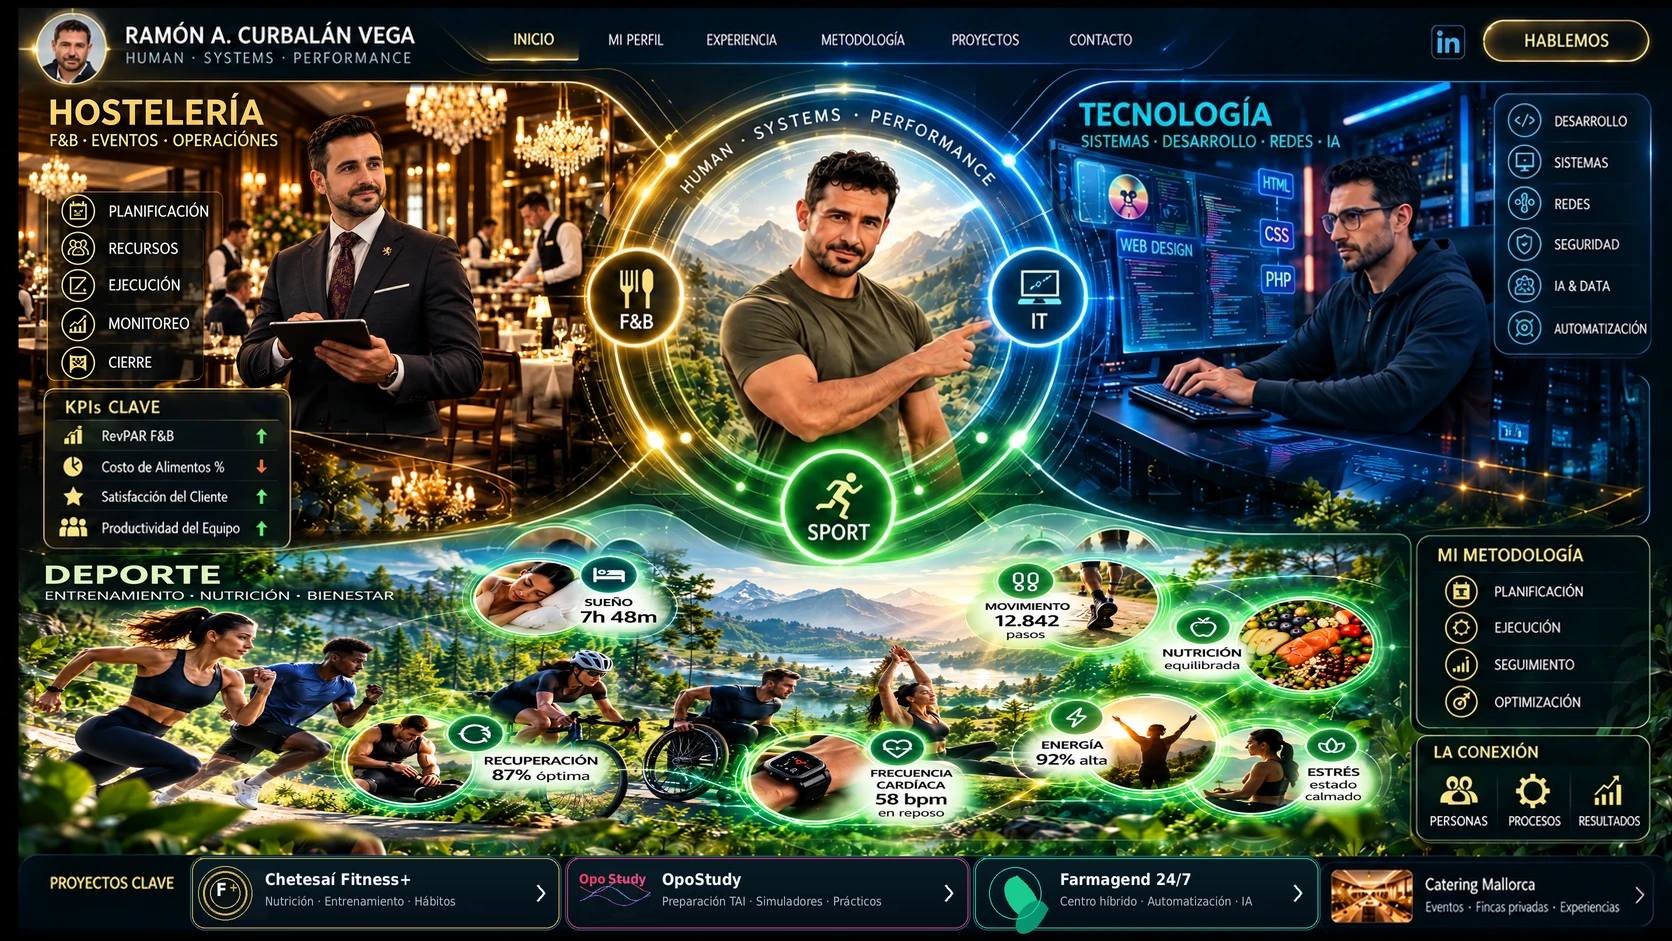
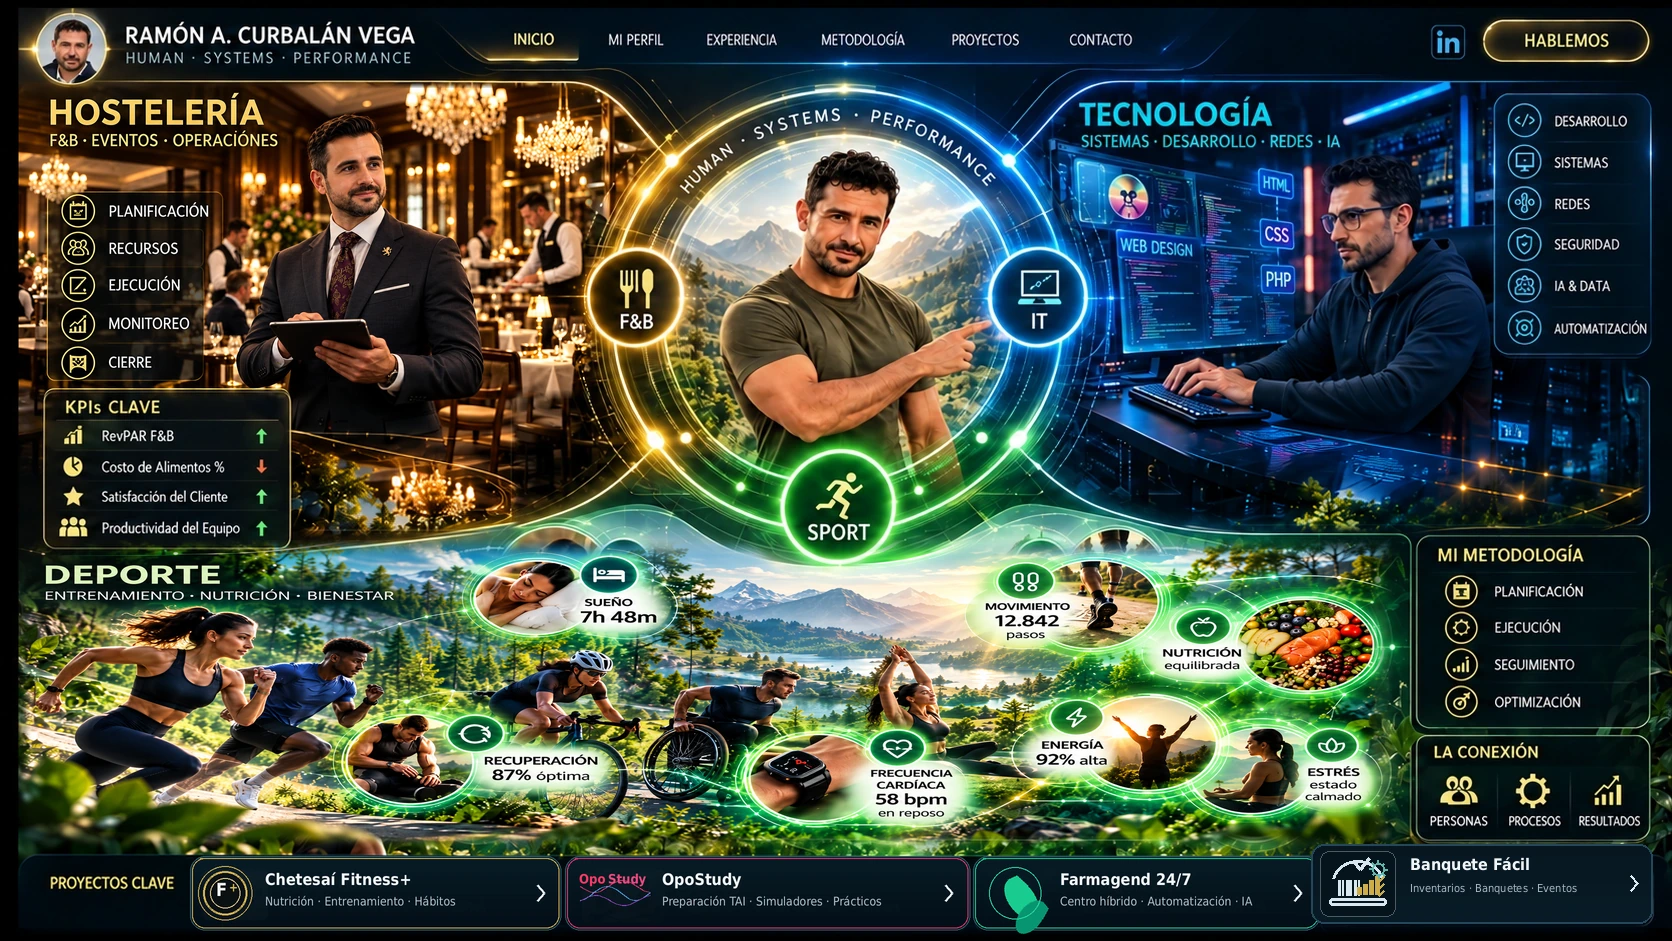
Replace Catering Mallorca with Banquete Facil inventory app

Changed region(s): [[0.7775, 0.8937, 0.9952, 0.9862]]

diff --git a/index.html b/index.html
@@ -23,7 +23,7 @@ dialog p{margin:0;color:#c9d6dc;line-height:1.65}
 </head>
 <body>
 <main class="cluster-stage" id="cluster">
-<img src="assets/cluster-approved.webp?v=cards-redrawn-hud" alt="Cluster Human Systems Performance de Ramón A. Curbalán Vega">
+<img src="assets/cluster-approved.webp?v=banquete-facil" alt="Cluster Human Systems Performance de Ramón A. Curbalán Vega">
 
 <!-- navegación -->
 <button class="hotspot" style="left:28.4%;top:0;width:5.3%;height:6.8%" data-open="Inicio" aria-label="Inicio"></button>
@@ -56,7 +56,7 @@ dialog p{margin:0;color:#c9d6dc;line-height:1.65}
 <a class="hotspot" style="left:11.5%;top:90.2%;width:22%;height:8%" href="https://chetesaifitness.com/" target="_blank" rel="noreferrer" aria-label="Chetesaí Fitness+"></a>
 <a class="hotspot" style="left:33.5%;top:90.2%;width:24%;height:8%" href="https://raymonchu48.github.io/Test-de-Oposicion-TAI/" aria-label="OpoStudy"></a>
 <a class="hotspot" style="left:58%;top:90.2%;width:20.5%;height:8%" href="farmagend.html" aria-label="Farmagend 24/7"></a>
-<a class="hotspot" style="left:78.5%;top:90.2%;width:19.2%;height:8%" href="https://github.com/Raymonchu48/Portfolio_Hosteleria" target="_blank" rel="noreferrer" aria-label="Catering Mallorca"></a>
+<a class="hotspot" style="left:78.5%;top:90.2%;width:19.2%;height:8%" href="https://raymonchu48.github.io/App_Inventarios/" aria-label="Banquete Fácil"></a>
 </main>
 
 <dialog id="modal">
